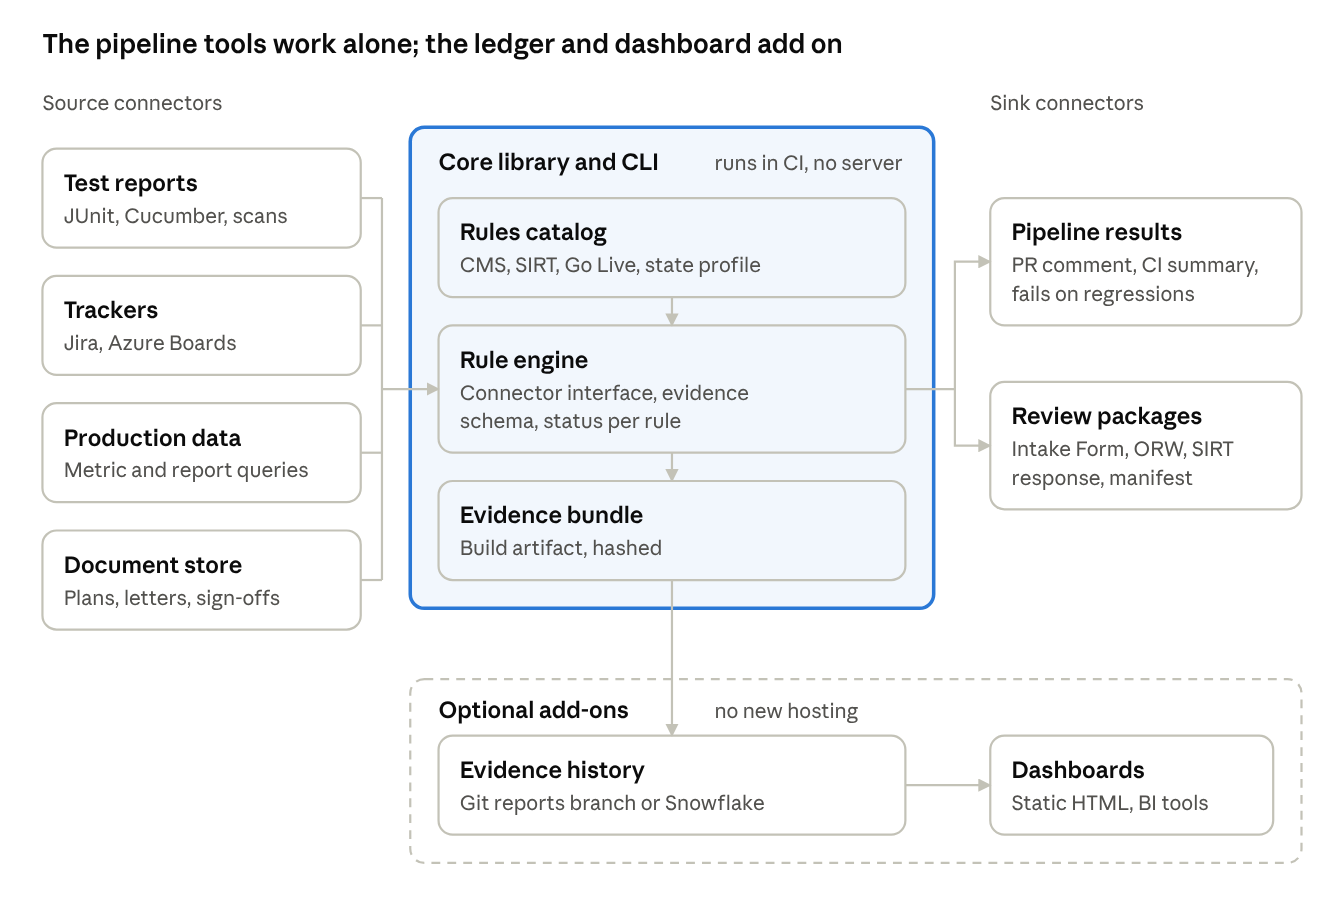
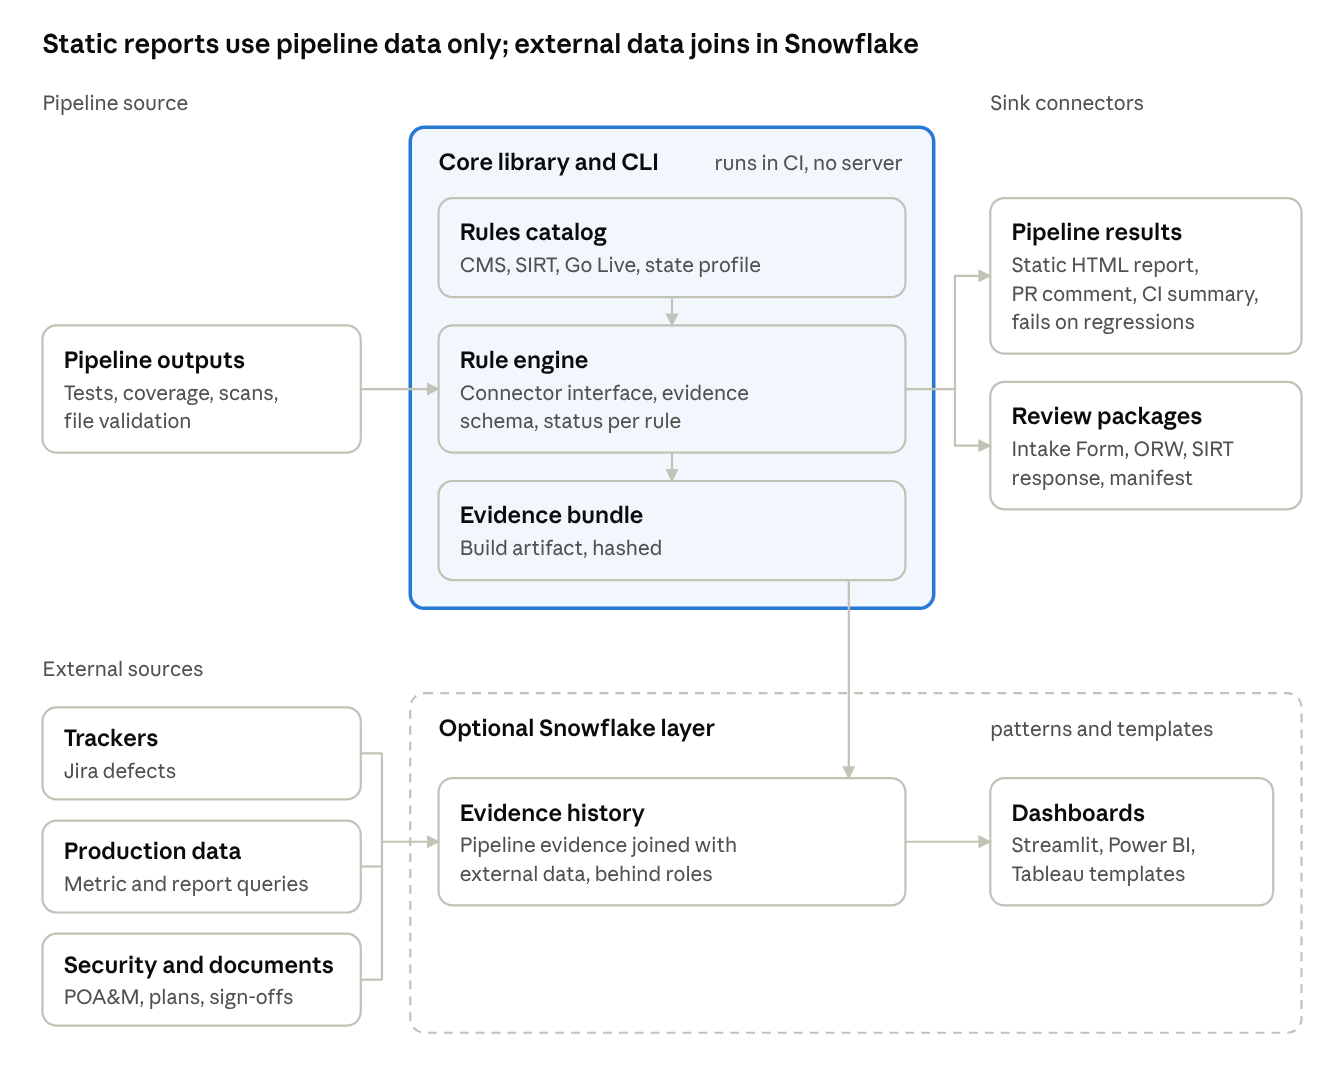
Simplify static reports and replace the data model with two contracts
- Static reports are built from the pipeline's evidence bundle alone and
  never read external data, so they need no roles or evidence classes.
- External data (Jira defects, production metrics, security findings,
  documents) joins only in the optional Snowflake layer, which ships
  mostly as patterns and templates rather than product code.
- The 30-entity reference model is replaced by a metric data contract
  (six record types, only the fields metrics read) and a test case
  format (household facts in, expected outcome out).
- Architecture image, README, next steps, and proposal export updated.

diff --git a/docs/proposal.md b/docs/proposal.md
@@ -172,23 +172,23 @@ The example packs start where the sources already state the test. The SIRT alone
 
 - **SIRT items.** Many items are a single checkable behaviour ("Does the system capture the application date?", AP-1). Each gets a Gherkin scenario with the 7 CFR citation and the rule ID already tagged.
 - **CMS E&E outcomes.** Scenarios for outcomes with clear system behaviour, such as EE15 (eligibility hierarchy) and EE21 (pending one program without holding up another).
-- **Metric queries.** Reference queries for the default E&E metrics and the Go Live numbers (timeliness, backlog buckets, notice counts), written against a small reference data model.
+- **Metric queries.** Reference queries for the default E&E metrics and the Go Live numbers (timeliness, backlog buckets, notice counts), written against the metric data contract.
 - **Report checks.** Checks that the Go Live reports can be produced and match source data, with the 95% accuracy threshold built in.
 - **File checks.** The ORW field rules from `ORW_Validation.xlsx`, ready to run in CI.
 
-Vendor systems differ, so each example binds to the vendor's system through a thin adapter (step definitions, or a view that maps the vendor's tables to the reference data model). The examples are starting points the state still reviews; they do not replace the state's own test design.
+Vendor systems differ, so each example binds to the vendor's system through a thin adapter (step definitions, for tests, or a view that maps the vendor's tables to the metric data contract). The examples are starting points the state still reviews; they do not replace the state's own test design.
 
 ### Mapping is configuration; extension is code
 
 No state will reshape its data for this toolkit, so the toolkit meets each state where it is.
 
 - **Reference implementation.** It covers every tracked item: the 27 E&E outcomes, 22 CEF, all SIRT rows, the 26 Go Live criteria, and the ORW and Intake Form rules. Each item gets the strongest evidence form available: an example test, a metric query, a report check, or a document checklist with an owner and due date.
-- **Mapping (configuration).** A state's `mapping.yaml` points each reference entity and field at the state's own tables, views, or SQL expressions, and translates code values. Rule settings are configuration too: N/A with justification, thresholds, state-specific outcomes, Go/No-Go criteria, and which agency template version to fill.
+- **Mapping (configuration).** A state's `mapping.yaml` points each metric data contract field at the state's own tables, views, or SQL expressions, and translates code values. Rule settings are configuration too: N/A with justification, thresholds, state-specific outcomes, Go/No-Go criteria, and which agency template version to fill.
 - **Extension (code).** New connectors, new check types, new report formats, and metrics that SQL cannot express are plugin packages written against the core interface.
 
 ```yaml
 # mapping.yaml (example state, illustrative)
-entities:
+records:
   application:
     source: snowflake
     table: ANALYTICS.ELIG.APPLICATIONS_V
@@ -207,27 +207,30 @@ rules:
 
 A `check-mapping` command lists unmapped fields and the rules each one blocks, so a state can see what a partial mapping already gives it.
 
-#### Reference entities
+#### Two small contracts, not a data model
 
-The reference model covers every entity the tracked rules need. The first four are built first because they cover timeliness, automation, notices, renewals, and most Go Live numbers.
+The toolkit needs a state's data for two jobs only, so it defines two small contracts instead of a domain model.
 
-| Group | Entities | Used by |
+**1. Metric data contract.** Only the fields that the tracked metrics and report checks read. It grows only when a new metric needs a field.
+
+| Record | Fields | Used by |
 | --- | --- | --- |
-| First build | Application, Eligibility determination, Notice, Renewal / recertification | EE1, EE5, EE6, EE9, EE13, EE14; Go Live timeliness, backlog, notice, and daily reports; SIRT application and notice items |
-| People and case | Person, Household / case, Authorized representative | Most SIRT eligibility items; EE15, EE16 |
-| Intake | Program request, Interview, Presumptive eligibility application, Account transfer | EE12, EE22–EE24; SIRT AP items |
-| Verification and budget | Verification request, Data source match, Income, Resource, Expense / deduction | EE5, EE7, EE8; SIRT income, resource, deduction, and data match items |
-| Decision and benefit | Eligibility group / category, Benefit calculation (SNAP allotment), Coverage / enrollment segment (including transmission to MMIS and MCO assignment) | EE3, EE11, EE15–EE20; SIRT benefit items |
-| Ongoing case events | Change or periodic report, Work requirement status (work registration, E&T, ABAWD), Claim and repayment, Benefit restoration, Issuance (EBT), Appeal / fair hearing | EE27; SIRT B, C, F, and work items; FNS-209, FNS-46, FNS-388 |
-| Operations | Task / work item, Worker and office, QC sample case, Report run, Disaster SNAP case | Go Live daily and backlog reports, QC sampling; SIRT operations, QC, and D-SNAP items |
+| Application | ID, received time, channel, programs requested, expedited flag | EE1, EE6; Go Live timeliness, backlog, and daily reports |
+| Determination | application ID, program, result, decision time, automated flag, method (MAGI or non-MAGI) | EE5, EE6; Go Live timeliness |
+| Notice | type, channel, generated time, sent time, automatic or manual | EE9, EE10; Go Live notice report |
+| Renewal | due date, completed date, ex parte flag, prepopulated form sent | EE13, EE14 |
+| Work item | type, created time, status, due date | Go Live backlog and daily reports |
+| Appeal and account transfer | type, channel, received time, completed time, status | EE22–EE24, EE27 |
+
+**2. Test case format.** Golden cases and example tests describe household facts in and the expected outcome out: eligibility, category, benefit amount, and notices. Household members, income, expenses, and deductions live only here. The vendor writes one adapter that turns a case into a call to its own system. SIRT items such as the excess shelter deduction are proven by these tests; the toolkit never reads that data from the state's systems.
 
 ## Proposed approach
 
 The toolkit links three things that exist today but are not connected: the published rules, the vendor's delivery signals, and the state's review packages. The state owns the instance and the evidence; the vendor feeds it.
 
-![The pipeline tools work alone; the evidence history and dashboards add on](images/architecture.png)
+![Static reports use pipeline data only; external data joins in the optional Snowflake layer](images/architecture.png)
 
-Everything in the core box runs inside a pipeline with no server. The rules decide what each piece of evidence proves, and each run leaves an evidence bundle as a build artifact. The ledger and dashboard are add-ons that read those bundles.
+Everything in the core box runs inside a pipeline with no server. The rules decide what each piece of evidence proves, and each run leaves an evidence bundle as a build artifact. The static report is built from that bundle alone. External sources (Jira, production data, security findings, documents) never enter the pipeline; they join the evidence only in the optional Snowflake layer.
 
 ### 1. Rules catalog
 
@@ -267,6 +270,8 @@ Source connectors collect evidence from tools the vendor already runs. The core 
 | Production metrics | Queries against the reporting database | ORW rows; CR metrics |
 | Documents and sign-offs | State document store; e-signature | CEF evidence; letters; plans |
 
+Of these, test results, coverage and traceability, and scans run in CI come from the pipeline itself. Defects, production metrics, and documents come from external sources. Their connectors load into the Snowflake layer, not into the pipeline's evidence bundle, so the static report never contains them.
+
 ### 3. Rule engine and validators
 
 The engine evaluates each rule against the ledger and gives one status: **Met**, **At risk**, **Not met**, **No evidence**, **Stale**, or **N/A (justified)**. Each status carries the reason and the evidence behind it. Validators check the CMS files themselves: the ORW against `ORW_Validation.xlsx`, and the Intake Form against the catalog (every CMS-required outcome and CEF listed, N/A rows justified, evidence file names that exist in the upload set).
@@ -286,39 +291,29 @@ A hosted app would trigger a security review in every state, so the views are de
 | --- | --- | --- | --- | --- |
 | 1. Static report per build | Each run writes one self-contained HTML file (no external scripts, no server) and its evidence JSON. The pipeline commits both to a dedicated reports branch or a separate private reports repository, never to the code branch. | None | Latest run, plus links to earlier files | Anyone who can read that repository |
 | 2. Git as the ledger | Each run's evidence JSON is a signed commit on a protected reports branch, so the branch is an append-only history. The report generator reads the branch to draw trends. | None | Full | Same as step 1 |
-| 3. Snowflake tables | The pipeline also loads the evidence JSON into a certification schema in the state's Snowflake account, next to the metric data it already holds. | None (existing account) | Full, queryable | Snowflake roles mapped to state groups |
+| 3. Snowflake tables | The pipeline also loads the evidence JSON into a certification schema in the state's Snowflake account, next to the metric data it already holds. External data (production metrics, security findings, Jira defects) joins the evidence here, never in the static report. | None (existing account) | Full, queryable | Snowflake roles mapped to state groups |
 | 4. Existing BI tools | Starter dashboards on those tables in Streamlit in Snowflake, Snowsight, Power BI, or Tableau, whichever the state already licenses. The toolkit ships the table schema and templates. | None (existing tools) | Full | The BI tool's own access control |
 | Side channels | A Jira sink keeps one Jira issue per rule or gate with its current status, so the director sees certification in Jira dashboards the team already uses. A pipeline digest posts a weekly summary to email or chat. | None | Per tool | Per tool |
 
-Two cautions. Static reports are only as private as the repository, so restricted evidence (security findings, any case data, small-area counts) never goes into them; it stays in Snowflake behind restricted roles, or out of the toolkit. And using existing tools avoids a new system, not data classification: the state still classifies the evidence under its own policy.
+Static reports contain only data the pipeline produced, so they need no access rules beyond the repository's own. Using existing tools avoids a new system, not data classification: the state still classifies whatever it loads into Snowflake under its own policy.
 
-### Complete views without exposing sensitive evidence
+### What each layer shows
 
-The views show the status of every item; the details of sensitive items stay where they already live, behind the access controls they already have. Each evidence kind has a class in the catalog, which a state can override in configuration. Anything unclassified is treated as restricted.
+The two layers have different data and different jobs.
 
-| Class | Examples | In repository reports | In Snowflake | Details stay in |
-| --- | --- | --- | --- | --- |
-| Open | Rule status, test pass counts, coverage, gate dates, document present with date and owner | Yes | Yes | — |
-| Summary only | Defects: ID, severity, status, dates, linked rule; no free text | IDs and counts | Yes | Jira, under Jira permissions |
-| Restricted | Security assessment findings, penetration test results, POA&M items | Status only: present, dated, expiry date, count of open critical items | Restricted schema, security role only | The security tool or the state's secure document store |
-| Aggregate only | Production metrics computed from case data | Values, with counts under 11 suppressed | Aggregates only | The state's governed case data |
-| Never collected | Case records, PHI, PII, screenshots with case data | No | No | Source systems |
+- **Static report: pipeline data only.** It shows only what the pipeline produced in that run: test results, rule status, coverage, scans run in the pipeline, file validation results, and gate dates from configuration. It never pulls external data: no security assessment findings, no Jira text, no production metrics. Its readers can already see everything the pipeline sees, so it needs no roles or evidence classes. Whoever can read the repository can read the report; if the repository is public, so is the report.
+- **Snowflake dashboard: where external data joins.** Production metrics from case data, third-party security findings and the POA&M, and Jira defect data are combined with the pipeline evidence here, behind Snowflake roles.
 
-**Where Snowflake data comes from:**
+**The Snowflake layer is mostly patterns and templates, not product code.** Every state's Snowflake account, data, security model, and BI tool differ, so the toolkit ships:
 
-1. Evidence bundles from the pipeline (open and summary classes), loaded through a stage in the state's cloud storage.
-2. Metric and report queries that run inside Snowflake against the state's existing E&E data. Only aggregate results are written to the certification schema; case data never leaves its own schema.
-3. Restricted evidence through a separate connector run only by the security role, for example a POA&M export from the security team's tool, loaded into a restricted schema.
-4. Defect fields from Jira through the Jira connector.
+- a documented certification schema for evidence and rule status;
+- a load pattern for pipeline evidence bundles;
+- metric query templates written against the metric data contract;
+- role and secure-view templates: viewer, acceptor, security, and a write-only loader; views that show restricted items to viewers only as status and counts; suppression of counts under 11;
+- starter dashboards for Streamlit in Snowflake, Power BI, and Tableau, connecting with each person's own login so Snowflake roles apply;
+- guidance for loading restricted sources, such as a POA&M export run by the security role.
 
-**How it is secured:**
-
-- Two schemas: `CERT` and `CERT_RESTRICTED`.
-- Roles mapped to state groups through single sign-on: viewer (director, project manager, vendor), acceptor (state product owner), security (state security officer), and a write-only loader for the pipeline service identity.
-- Secure views show viewers restricted items only as status and counts, for example "3 open critical, oldest 21 days"; the security role sees details. Masking policies cover any free-text column.
-- Power BI, Tableau, and Streamlit connect with each person's own identity, so Snowflake roles apply in every tool. There is no shared viewing account.
-- Snowflake's access history gives an audit trail.
-- The static report generator only renders open and summary classes. This is enforced in code and covered by tests, so a configuration mistake cannot leak restricted fields into the repository.
+States adapt these with their own data and security teams. The code the toolkit owns and maintains stays in the pipeline: the core, the connectors, and the static report.
 
 ### Trust and independence
 
@@ -515,9 +510,9 @@ Phase 0 helps any state on day one, without vendor changes: like the HPT online 
 | FNA pilot | Assumed: a live pilot with the new system as system of record, plus an optional legacy comparison run, meets 7 CFR 277.18. Confirm with FNA. |
 | Shared catalog hosting | No CMS or FNA hosting assumed. The core repository is the upstream. |
 | First project | One state, not named publicly. Assumed profile: full rebuild from scratch by an agile-first civic tech vendor. GitHub for code, Azure DevOps for pipelines, Jira for issues, Snowflake for metrics. First connectors: GitHub, Azure DevOps, Jira, Snowflake. |
-| Dashboard and hosting | No dedicated hosted app for now, because it would trigger a state security review. Start with a static HTML report per build, committed to the repository. Then use tools the state already runs (Snowflake, Power BI, Tableau, Jira). A hosted app is paused. |
+| Dashboard and hosting | No dedicated hosted app for now, because it would trigger a state security review. Start with a static HTML report per build, committed to the repository. Then use tools the state already runs (Snowflake, Power BI, Tableau, Jira). A hosted app is paused. Static reports show pipeline data only; external data joins only in Snowflake, which ships mainly as patterns and templates. |
 | Program tags | Used only for the toolkit's own purposes (filtering evidence by agency, gates, and views). Never used for cost allocation. |
-| Data model | Fully configurable. A complete reference implementation covers every tracked item; states map their own data to it through configuration, and extend it through code plugins. No state is expected to adopt the reference schema. |
+| Data model | No data model. Two small contracts: a metric data contract (only the fields the metrics read) and a test case format (household facts in, expected outcome out). A complete reference implementation covers every tracked item; states map fields through configuration and extend through code plugins. |
 | Language and packaging | Language-neutral contracts (JSON Schema, documented CLI) with one reference implementation shipped as a package and a container image. |
 | Catalog maintenance | The core repository owner maintains the upstream catalog. States fork and maintain their own copy, pulling from the core repository or directly from CMS and FNA sources. |
 | License | Code: AGPL-3.0, with a commercial license available from the owner. Contributors sign a contributor license agreement so dual licensing stays possible. Rules data and examples: CC0. Agency templates: the new CMS templates from SHO #25-003 are the target. Repository: github.com/jisaf/continuous-apd-certification. |
@@ -530,11 +525,11 @@ Phase 0 helps any state on day one, without vendor changes: like the HPT online 
 
 **For the state and the first project**
 
-- [ ] **Access and restricted evidence.** Agree which evidence never goes into repository reports (security findings, any case data) and which state roles see it in Snowflake or BI tools.
+- [ ] **Access and restricted evidence.** Agree which Snowflake roles see which external data, starting from the role templates.
 
 **For the design**
 
-- [ ] **Reference entity order.** Agree the order of entities for the reference implementation (proposed: Application, Determination, Notice, Renewal first).
+- [ ] **Metric data contract.** Confirm the six record types and their fields with the first state's data team.
 - [ ] **License.** Decided: AGPL-3.0 plus commercial for code; CC0 for data and examples. A draft contributor license agreement is in the repository and needs legal review. Constraints: software built with federal funds must be owned by the state, with a royalty-free federal license (HB 901 Appendix A16; CMS CEF05 and CEF06), and FNA warns against accepting free software from a party that would gain an unfair advantage on follow-on work (A16.8). Building the core outside any state contract keeps it the owner's to license; state-funded extensions belong to the state.
 
 **Research still to do**

diff --git a/docs/next-steps.md b/docs/next-steps.md
@@ -8,15 +8,16 @@ Status as of 2026-11-11. The full reasoning is in [`proposal.md`](proposal.md).
    - Extract the CMS-required E&E outcomes and the 22 CEFs from the [MES Certification Repository](https://github.com/CMSgov/CMCS-DSG-DSS-Certification), pinned to a reviewed commit.
    - Extract the SNAP SIRT from FNA's Excel version, the SNAP Go Live Requirements, and the FNA testing gates from Handbook 901.
    - Give every item a stable catalog key, because agency IDs repeat (524 unique SIRT IDs cover 821 rows).
-   - Record for each item: source and citation, gates, evidence type (from [`research/classification/`](research/classification/)), evidence class (open, summary only, restricted, aggregate only), and whether it is a leading indicator.
-2. **Schemas.** JSON Schemas for catalog entries, the evidence record, the evidence bundle, state configuration (`mapping.yaml`), and the connector interface.
+   - Record for each item: source and citation, gates, evidence type (from [`research/classification/`](research/classification/)), and whether it is a leading indicator.
+2. **Schemas.** JSON Schemas for catalog entries, the evidence record, the evidence bundle, state configuration (`mapping.yaml`), the connector interface, the metric data contract, and the test case format.
 3. **File validators** for the agencies' current templates: the new CMS templates from SHO #25-003 (SMC Intake Form, Operational Report Workbook) and the FNA SIRT response workbook.
-4. **Static report generator.** One self-contained HTML file per build from an evidence bundle. It renders only the open and summary-only evidence classes; this is enforced in code and tested.
-5. **Reference entities, first four.** Application, Eligibility determination, Notice, Renewal — with reference metric queries for the default E&E metrics and the Go Live numbers.
+4. **Static report generator.** One self-contained HTML file per build, built from the pipeline's evidence bundle alone. It never reads external data (Jira, production data, security findings, documents).
+5. **Two small contracts, not a data model.** The metric data contract (six record types: Application, Determination, Notice, Renewal, Work item, Appeal and account transfer — only the fields the metrics read) and the test case format (household facts in, expected outcome out).
 
 ## Phase 1 — Build to ORR (first state project)
 
-- Connectors: GitHub, Azure DevOps (pipeline step and summary), Jira (defects in; one issue per rule or gate out), Snowflake (metric queries in; evidence tables out), email and chat digests.
+- Pipeline connectors: GitHub, Azure DevOps (pipeline step and summary), Jira (one issue per rule or gate out), email and chat digests.
+- Snowflake layer, mostly patterns and templates: certification schema, evidence load pattern, metric query templates, role and secure-view templates, starter dashboards, and loaders for external data (Jira defects, security findings).
 - Example test packs: SIRT pre-write candidates and the E&E outcomes with clear behaviour, as Gherkin with rule IDs tagged.
 - Golden case set for the policy indicators (see below).
 - Package generators for the ORR and the FNA UAT Go/No-Go.
@@ -24,7 +25,7 @@ Status as of 2026-11-11. The full reasoning is in [`proposal.md`](proposal.md).
 
 ## Decisions still needed
 
-- Which evidence classes each state role may see, and the exact restricted list.
+- Which Snowflake roles see which external data, starting from the role templates.
 - Legal review of the [contributor license agreement](../CLA.md).
 - Confirmation from FNA and CMS that generated files in their templates, and the reading of the pilot rule, are acceptable.
 

diff --git a/README.md b/README.md
@@ -31,9 +31,9 @@ The model is CMS's own [Hospital Price Transparency tools](https://cmsgov.github
 3. **Pre-written examples where the test is known** — for example, 588 of the 821 SNAP SIRT rows are single, checkable behaviours.
 4. **Connectors against one core interface.** GitHub, Azure DevOps, Jira, Snowflake, email, and chat are plugins; adding one is a documented, tested process.
 5. **Mapping is configuration; extension is code.** No state will reshape its data for this toolkit, so the toolkit maps to each state's data.
-6. **No new hosting.** Static HTML reports per build first, then the state's existing tools (Snowflake, Power BI, Tableau, Jira). A hosted application is deliberately out of scope for now, because it would trigger a separate security review in every state.
+6. **No new hosting.** Static HTML reports per build first, built from pipeline data only. External data (production metrics, security findings, Jira defects) joins only in the state's existing tools (Snowflake, Power BI, Tableau), delivered mostly as patterns and templates. A hosted application is deliberately out of scope for now, because it would trigger a separate security review in every state.
 
-![The pipeline tools work alone; the evidence history and dashboards add on](docs/images/architecture.png)
+![Static reports use pipeline data only; external data joins in the optional Snowflake layer](docs/images/architecture.png)
 
 ## First project
 
